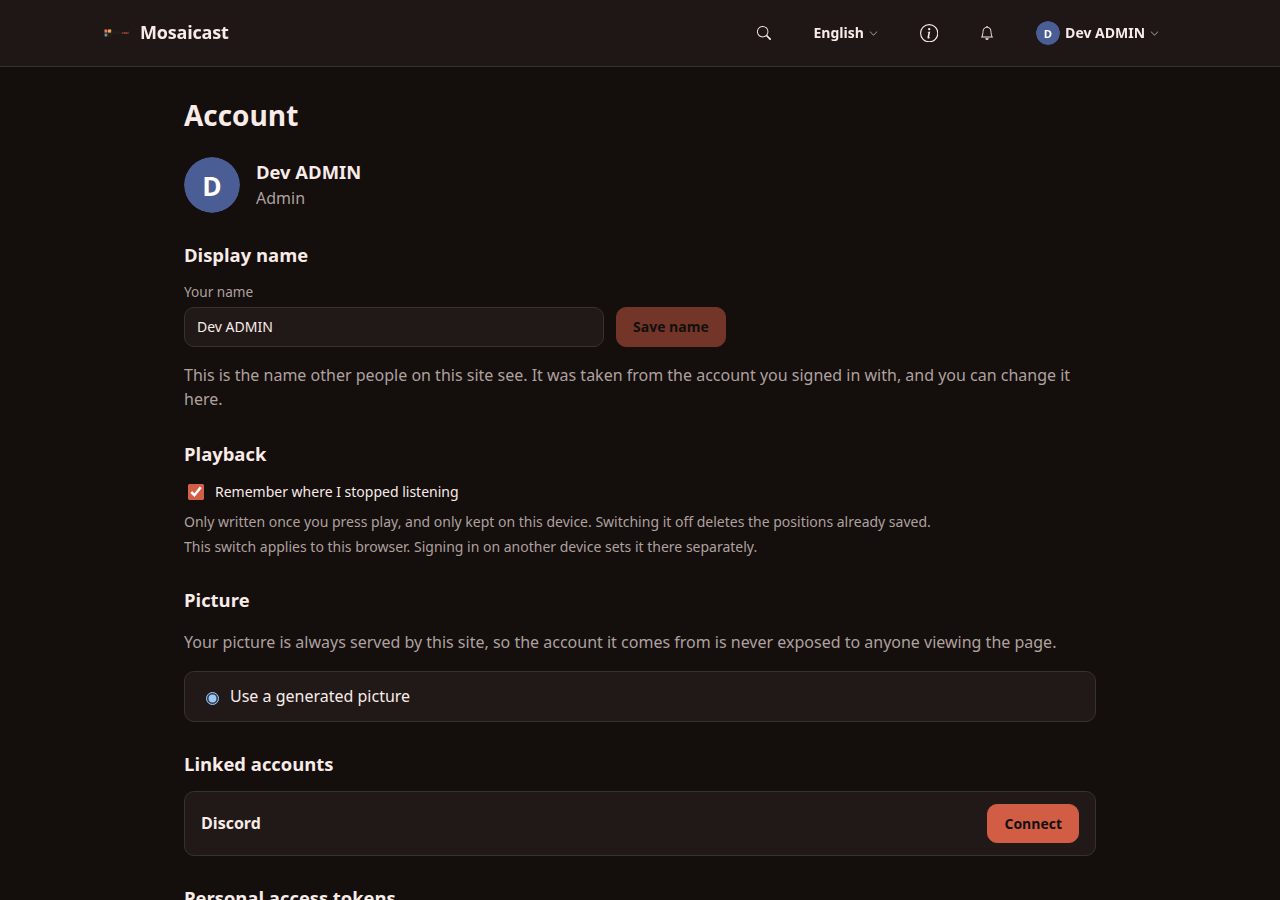
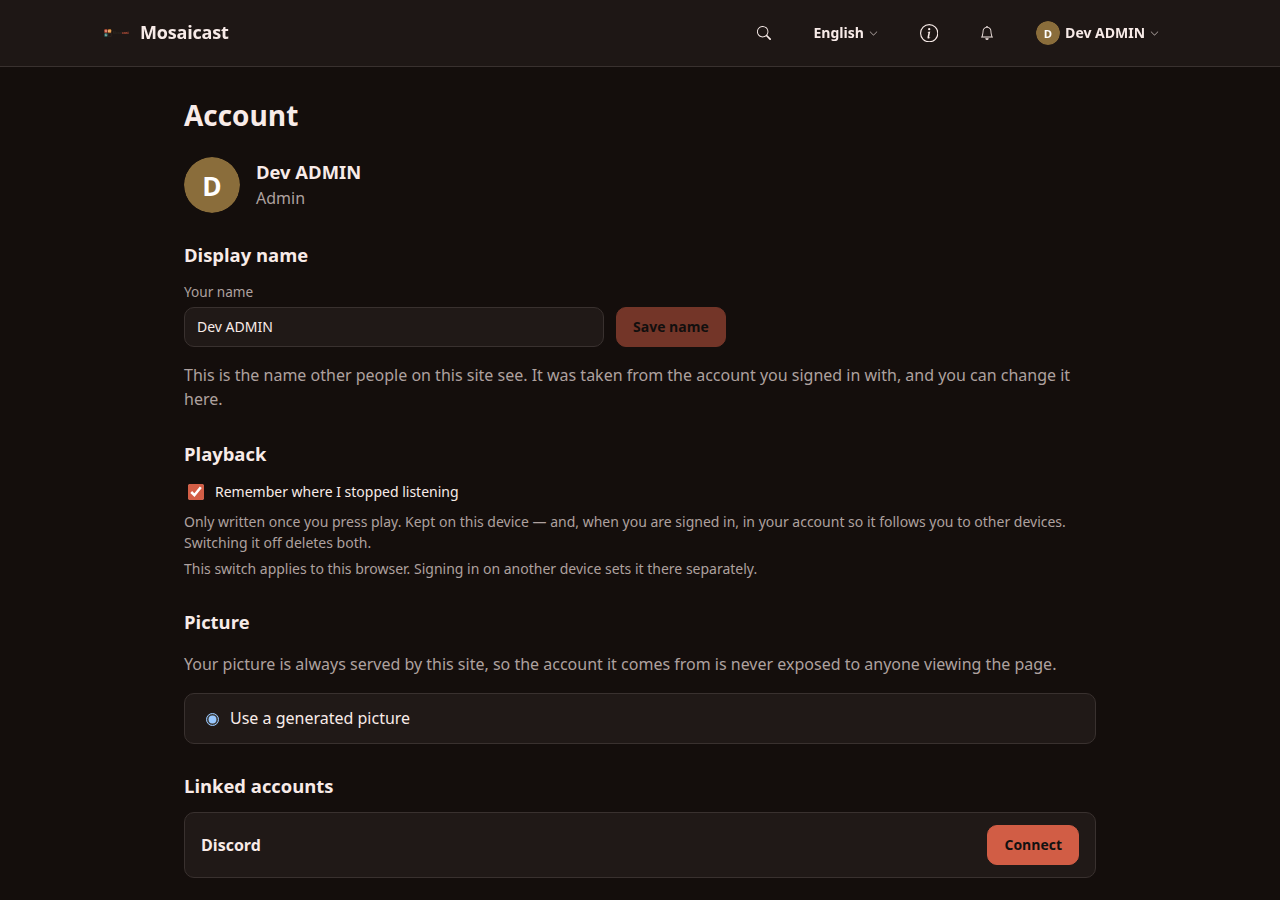
docs: refresh the screenshots, and name the Spring Boot line the build is on
- All four pages in both themes, recaptured from a dev instance of
  master (admin session, no plugins, colour scheme emulated and the page
  reloaded). #222-#229 changed what they show since the #221 set: the
  account page's playback wording (#225), the admin feed status label
  (#223), and the footer version.
- CLAUDE.md said Spring Boot 3; the build has been on 4.x (Jackson 3)
  since the SDK 0.4.0 migration.

diff --git a/CLAUDE.md b/CLAUDE.md
@@ -9,7 +9,7 @@ The host: Spring Boot backend + React/Vite shell. Loads plugins, unifies feeds, 
 Read both fully before writing code. Work in plan mode first.
 
 ## Tech stack
-Java 21 · Spring Boot 3 · PostgreSQL · PF4J · React + Vite
+Java 21 · Spring Boot 4 (Jackson 3) · PostgreSQL · PF4J · React + Vite
 
 ## Commands
 ```
